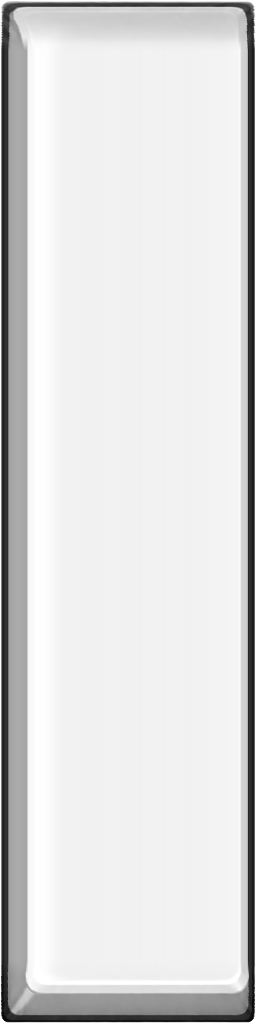
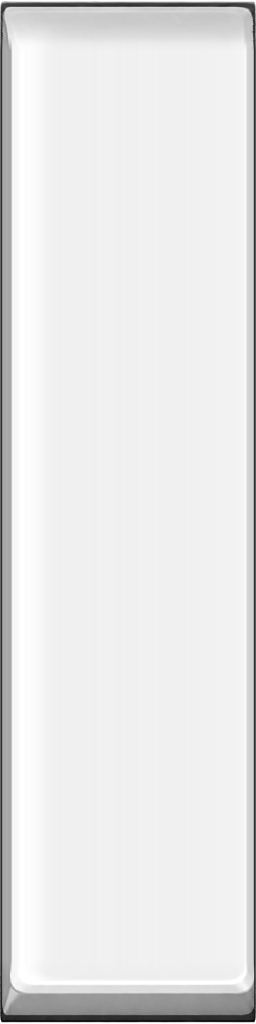
fix(render): narrower gaps between arcade keys

Changed region(s): [[0.0, 0.0, 0.125, 1.0], [0.9375, 0.0, 1.0, 1.0]]

diff --git a/src/render/KeyboardLayer.ts b/src/render/KeyboardLayer.ts
@@ -84,7 +84,7 @@ const KEY_STYLES: Readonly<Record<KeyStyle, StyleSet>> = {
       blackPressedLit: new URL("./keys-arcade/black-pressed-lit.webp", import.meta.url).href
     },
     // The pressed faces share the up faces' slices: their sunk bevel sits inside the bottom band.
-    white: { leftWidth: 34, topHeight: 50, rightWidth: 24, bottomHeight: 146 },
+    white: { leftWidth: 20, topHeight: 50, rightWidth: 20, bottomHeight: 146 },
     black: { leftWidth: 26, topHeight: 38, rightWidth: 22, bottomHeight: 91 },
     rail: new URL("./keys-arcade/case-rail.webp", import.meta.url).href
   }
